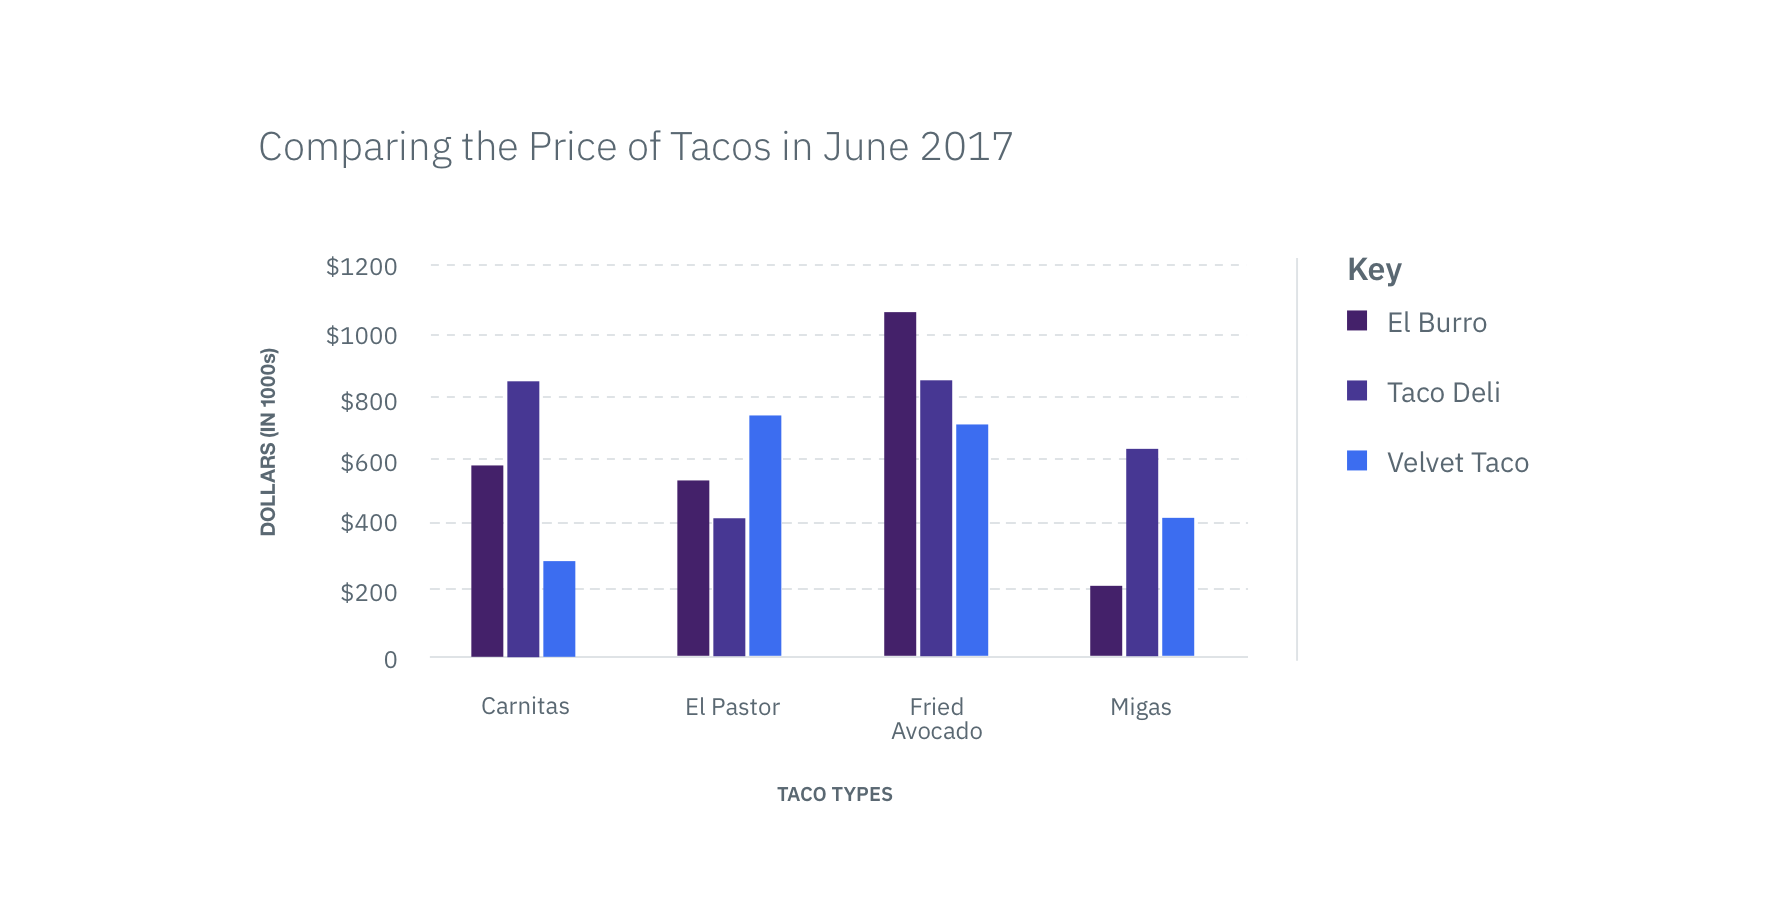
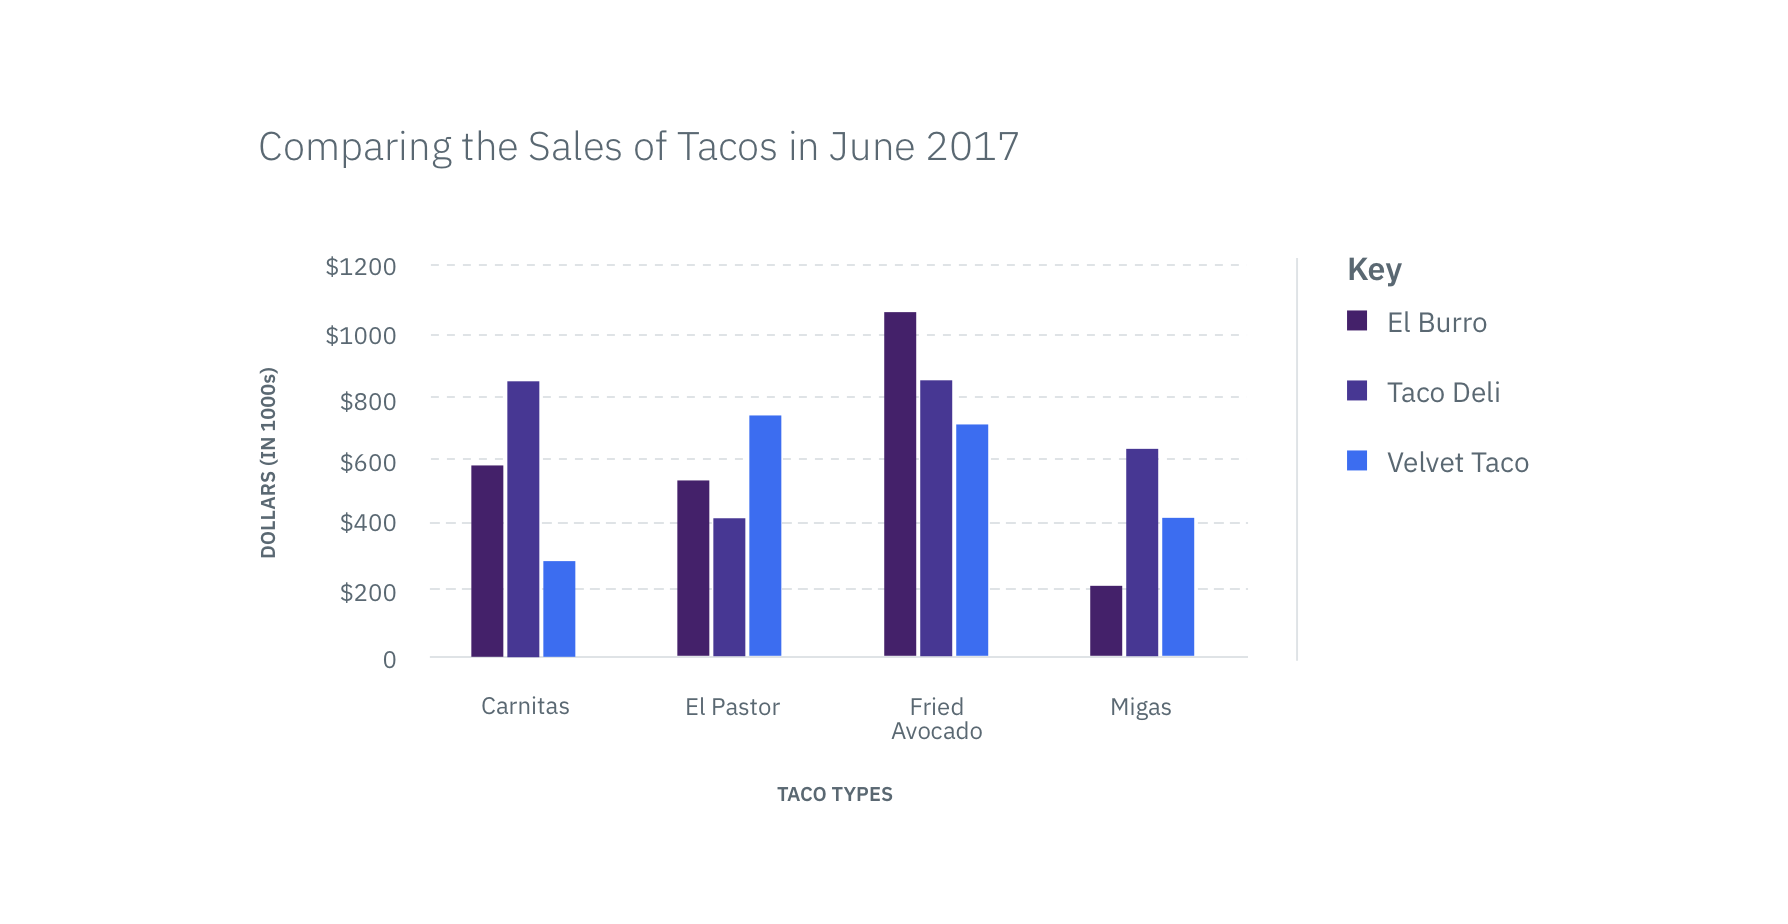
addressed comments

diff --git a/src/content/whats-new/whats-new.md b/src/content/whats-new/whats-new.md
@@ -3,12 +3,12 @@
 ## Components
 
 ### Dropdown
-We're excited to bring some added functionality that enchances our [Dropdown](/components/dropdown) component. Filtering, Multiselect, and Inline Dropdown are new additions to our basic Dropdown component.
+We're excited to bring some added functionality that enhances our [Dropdown](/components/dropdown) component. Filtering, Multiselect, and Inline Dropdown are new additions to our basic Dropdown component.
 
 **Note: This component is currently only available in [React](http://react.carbondesignsystem.com/?selectedKind=ComboBox&selectedStory=default&full=0&addons=1&stories=1&panelRight=0&addonPanel=storybook%2Factions%2Factions-panel).**
 
-![Dropdown with Multiselect](images/dropdown-new.gif)
-_Mulit-select Dropdown_
+![example of Dropdown with Multi-Select](images/dropdown-new.gif)
+_Example of Multi-Select Dropdown_
 
 
 ### Small Toggle
@@ -16,21 +16,22 @@ Small Toggle is a style variation of our traditional [Toggle](/components/toggle
 
 ---
 ***
-> ![Small toggle](images/small-toggle.gif)
+> ![example of Small toggle](images/small-toggle.gif)
+_Example of Small Toggle_
 
 
 
 ### Data Vis: Bar Graph
-Bar Graph is the newest addition to our Data Visualization collection. It comes in two variations: Bar Graph and Grouped Bar Graph. You can use this component to represent quantitative information, such as comparing the price of various taco sales in the month of June.
+Bar Graph is the newest addition to our Data Visualization collection. It comes in two variations: Bar Graph and Grouped Bar Graph. You can use this component to represent quantitative information, such as comparing the taco sales between Austin taco shops in the month of June.
 
 Read more about the usage of [Bar Graph](http://carbondesignsystem.com/data-vis/bar-graph/usage), or check out our [CodePen](https://codepen.io/team/carbon/pen/OzBKKN) to view the live demo.
 
 ![Bar Graph example](images/usage-bar-graph.png)
 
 ### Data Vis: Tooltip
-We've componetized the Tooltips that appear within various Data Vis components. Tooltips appear above or below a data representation depending on the use case.
+We have created several Data Visualization Tooltip variations to show the value for a specific data point or increment range. Tooltips appear on hover above or below a data representation, depending on the use case.
 
-Read more about the usage of [Tooltips](/components/data-vis/tooltips/usage), or check out our [CodePen](#) to view the live demo.
+Read more about the usage of [Data Vis Tooltips](/components/data-vis/tooltips/usage), or check out our [CodePen](https://codepen.io/team/carbon/pen/rJWymp) to view the live demo.
 
 ![small tooltip in a bar graph](images/usage-small-tooltip.png)
 
